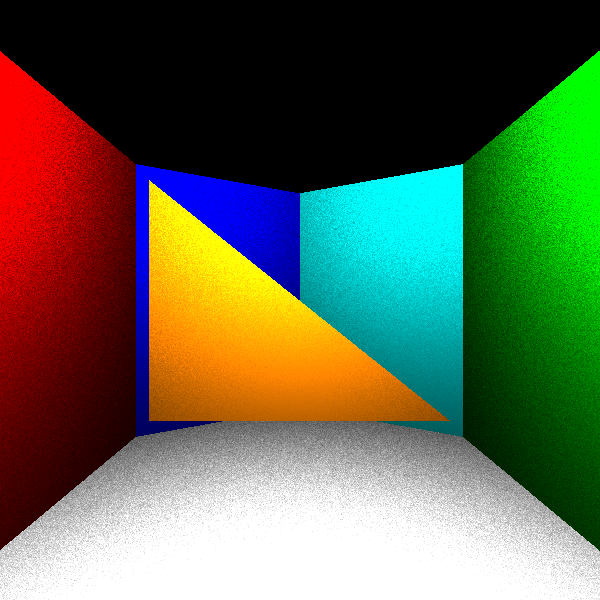
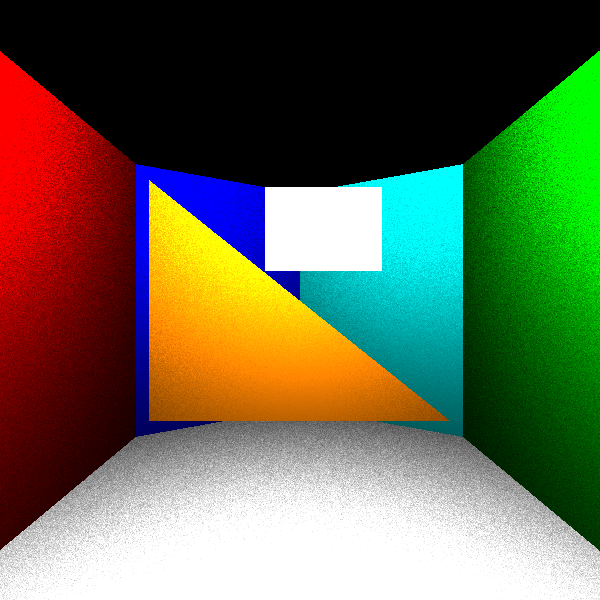
SummerTimeSadness
I got my red dress on tonight, summertime sadness. Also added tetrahidrogen (I can't spell btw), Also fixed shadow ray! I'm very happy to have done this. (I'm actually not, I have gotten 4h of sleep tonight and is thinkning about "avregistrera dig från utbildningen" rn. Plz send help...). Thanks for watching and reading all this guys, remember to like and fork this project and I'll see you guys in the next reposertory! (help...)

Changed region(s): [[0.42, 0.3, 0.66, 0.45]]

diff --git a/source/ray.cpp b/source/ray.cpp
@@ -7,13 +7,13 @@ Ray::Ray(glm::vec3 start, glm::vec3 direction, ColorDBL color, Ray* prev, Ray* n
 : startVertex(start), direction(glm::normalize(direction)), previousRay(prev), nextRay(next), color(color)  {   
 }
 
-ColorDBL Ray::castShadowRay(const Polygon* fromPolygon, const Light& lightsource) {
+ColorDBL Ray::castShadowRay(const Polygon* fromPolygon, const Light& lightsource, const std::vector<Polygon*>& allPolygons) {
 
     // Creates a white color
     ColorDBL shadowIntensity = ColorDBL(0.0,0.0,0.0);
 
     // Number of shadow rays
-    int nmrOfShadowrays = 5;
+    int nmrOfShadowrays = 3;
 
     for (int i = 0; i < nmrOfShadowrays; i++) {
 
@@ -25,24 +25,30 @@ ColorDBL Ray::castShadowRay(const Polygon* fromPolygon, const Light& lightsource
 
         // Check for intersections with objects in the scene
         if (lightsource.surface_->PointInPolygon(castedShadowRay) != glm::vec3(-100, -100, -100)) {
-
-            glm::vec3 normal = fromPolygon->getNormal();
-            glm::vec3 lightDirection = glm::normalize(p - this->endVertex);
-
-            // Calculate cosines of the angles between the surface normal and light direction
-            float cosThetaX = glm::dot(normal, lightDirection);
-            float cosThetaY = glm::dot(normal, castedShadowRay.direction);
-
-            // Calculate the denominator of the Lambertian reflection formula
-            float denominator = pow(glm::length(p - this->endVertex),2);
-
-            double lamb = std::min(1.0,((lightsource.area * 3.14f * cosThetaX * cosThetaY) / denominator));
-
-            //std::cout << lamb << std::endl;
-
-            // Update shadow intensity using Lambertian reflection formula
-            shadowIntensity += ColorDBL(lamb,lamb,lamb);
-
+            int hits = 0;
+            for(Polygon* p : allPolygons){
+                if(p->PointInPolygon(castedShadowRay) != glm::vec3(-100, -100, -100)){
+                    hits++;
+                }
+            }
+            if(hits<2){
+                glm::vec3 normal = fromPolygon->getNormal();
+                glm::vec3 lightDirection = glm::normalize(p - this->endVertex);
+                
+                // Calculate cosines of the angles between the surface normal and light direction
+                float cosThetaX = glm::dot(normal, lightDirection);
+                float cosThetaY = glm::dot(normal, castedShadowRay.direction);
+                
+                // Calculate the denominator of the Lambertian reflection formula
+                float denominator = pow(glm::length(p - this->endVertex),2);
+                
+                double lamb = std::min(1.0,((lightsource.area * 3.14f * cosThetaX * cosThetaY) / denominator));
+                
+                //std::cout << lamb << std::endl;
+                
+                // Update shadow intensity using Lambertian reflection formula
+                shadowIntensity += ColorDBL(lamb,lamb,lamb);
+            }
         }
     }
 

diff --git a/source/main.cpp b/source/main.cpp
@@ -28,13 +28,12 @@ int main() {
     theScene.addCamera(theCamera);
 
     // Add objects (e.g., spheres, triangles) to the scene
-    theScene.addPolygon(new Triangle(glm::vec3(9, 5, -4), glm::vec3(9, -5, -4), glm::vec3(9, 5, 4), ColorDBL(0.98, 0.51, 0.01)));
-
+    theScene.addPolygon(new Triangle(glm::vec3(10, 3, 0), glm::vec3(10, -3, 0), glm::vec3(3, 3, 2), ColorDBL(0.98, 0.51, 0.01)));
 
     // Adds a light to the scene
     Light theLight = Light(glm::vec3(-2, -2, 5), glm::vec3(-2, 2, 5), glm::vec3(2, -2, 5), glm::vec3(2, 2, 5), glm::vec3(1, 1, 1));
     theScene.addLight(theLight);
-   
+    
     // Loop through each pixel in the matrix and assigns the color -----------------------------------------------------
     for (int row = 0; row < imageWidth; ++row) {
         for (int col = 0; col < imageHeight; ++col) {
@@ -63,7 +62,7 @@ int main() {
                     // Initializes the end vertex
                     rayFromPixel.endVertex = intersectionPoint;
 
-                    ColorDBL obtainedLight = rayFromPixel.castShadowRay(p,theLight);
+                    ColorDBL obtainedLight = rayFromPixel.castShadowRay(p,theLight,theScene.getTheRoom());
 
                     // Calculate t value for the intersection
                     float t = glm::length(intersectionPoint - rayFromPixel.startVertex);
@@ -87,7 +86,7 @@ int main() {
     }
 
     // Saves the rendered picture as a PNG -----------------------------------------------------------------------------
-    const char* outputPath = "../outputImage/rendered_image.png";
+    const char* outputPath = "rendered_image.png";
     
     theCamera.renderAndSaveImage(outputPath, imageWidth, imageHeight, imagePlane);
     

diff --git a/include/polygon.h b/include/polygon.h
@@ -46,7 +46,6 @@ public:
     float getWidth() const;
     float getHeight() const;
     glm::vec3 getNormal() const override;
-private:
     bool IntersectPlane(const Ray& ray) const override;
     
     glm::vec3 vertices[4];
@@ -66,9 +65,23 @@ public:
     // Implement the Intersect method for triangles
     glm::vec3 PointInPolygon(const Ray& ray) const override;
     glm::vec3 triNormal;
-private:
     bool IntersectPlane(const Ray& ray) const override;
     glm::vec3 getNormal() const override;
     glm::vec3 vertices[3]; // Defines vertices of the triangle
+    Triangle& operator=(const Triangle& other); //Copy constructor 
 };
 
+
+// tetrahedra subclass----------------------------------------------------------------------
+class Tetrahedron {
+public:
+    Tetrahedron(const glm::vec3& v0, const glm::vec3& v1, const glm::vec3& v2, const glm::vec3& v3, const ColorDBL c) {
+        faces[0] = new Triangle(v0, v1, v2, c);
+        faces[1] = new Triangle(v0, v2, v3, c);
+        faces[2] = new Triangle(v0, v3, v1, c);
+        faces[3] = new Triangle(v1, v3, v2, c);
+    }
+    glm::vec3 pointOnTetra(const Ray& ray);
+    //Faces of the tetrahedra
+    Triangle* faces[4];
+};

diff --git a/source/polygon.cpp b/source/polygon.cpp
@@ -101,3 +101,18 @@ glm::vec3 Triangle::getNormal() const{
     normal = glm::normalize(normal);
     return normal;
 }
+//Assignment operator
+/*Triangle& Triangle::operator=(const Triangle& other) {
+    if (this != &other) {  // Avoid self-assignment
+        this->vertices = other.vertices;    //assign vertecies from other to this
+    }
+    return *this;
+}*/
+
+// tetrahedra subclass----------------------------------------------------------------------
+glm::vec3 Tetrahedron::pointOnTetra(const Ray& ray) {
+    for(Triangle* t : faces){
+        t->PointInPolygon(ray);
+    }
+}
+

diff --git a/include/ray.h b/include/ray.h
@@ -20,5 +20,5 @@ public:
     Ray(glm::vec3 start, glm::vec3 direction, ColorDBL color = ColorDBL(0.0, 0.0, 0.0), Ray* prev = nullptr, Ray* next = nullptr);
 
     //Cast shadowray and will return the new ColorDBL from the light (if hit)
-    ColorDBL castShadowRay(const Polygon* fromPolygon, const Light& lightsource);
+    ColorDBL castShadowRay(const Polygon* fromPolygon, const Light& lightsource, const std::vector<Polygon*>& allPolygons);
 };
